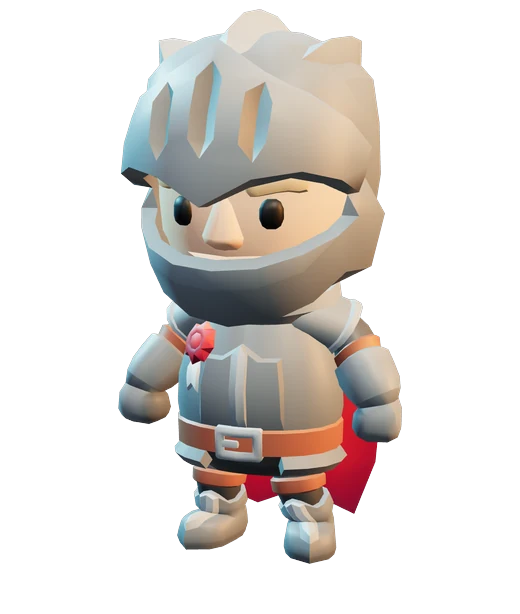
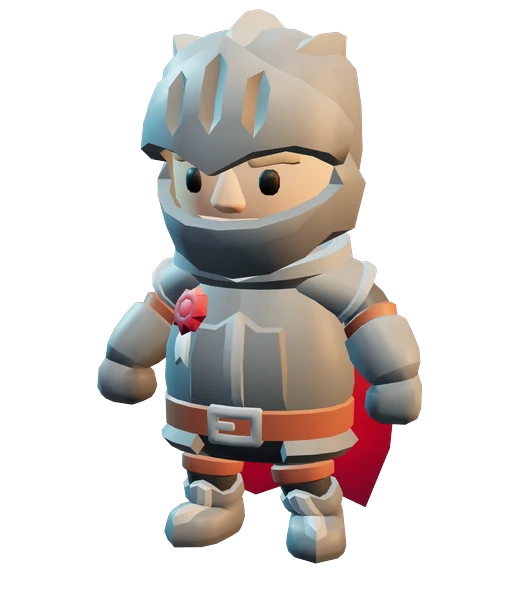
Site: rank characters with heads at 75% and softer exposure baked into the renders

diff --git a/index.html b/index.html
@@ -187,7 +187,7 @@ h3 { font-size: 26px; line-height: 1.1; text-transform: uppercase; letter-spacin
 .rank.r4 { --tint: 150, 160, 175; margin-top: 28px; }
 .rank.r5 { --size: 290px; --tint: 244, 148, 40; --lift: -33px; margin-top: 0px; box-shadow: 8px 8px 0 var(--orange); }
 .stage { position: relative; height: 150px; border-bottom: 2px solid var(--ink); background: radial-gradient(80% 90% at 50% 100%, rgba(var(--tint), .55), rgba(var(--tint), .12) 70%), #0e1a2e; clip-path: inset(-100px -40px 0 -40px); }
-.stage img { position: absolute; left: 50%; bottom: calc(-97px + var(--lift, 0px)); width: var(--size, 260px); max-width: none; height: auto; transform: translateX(-50%); filter: brightness(.8) contrast(1.08) saturate(1.05) drop-shadow(0 10px 14px rgba(0, 0, 0, .45)); transition: transform .35s cubic-bezier(.2, .8, .2, 1); }
+.stage img { position: absolute; left: 50%; bottom: calc(-97px + var(--lift, 0px)); width: var(--size, 260px); max-width: none; height: auto; transform: translateX(-50%); filter: drop-shadow(0 10px 14px rgba(0, 0, 0, .45)); transition: transform .35s cubic-bezier(.2, .8, .2, 1); }
 .rank:hover .stage img { transform: translateX(-50%) translateY(-10px) scale(1.04); }
 .rank-body { padding: 16px 18px 20px; display: grid; gap: 8px; }
 .rank .lv { margin: 0; font: italic 800 15px/1 var(--display); letter-spacing: .12em; text-transform: uppercase; color: var(--blue-deep); }
